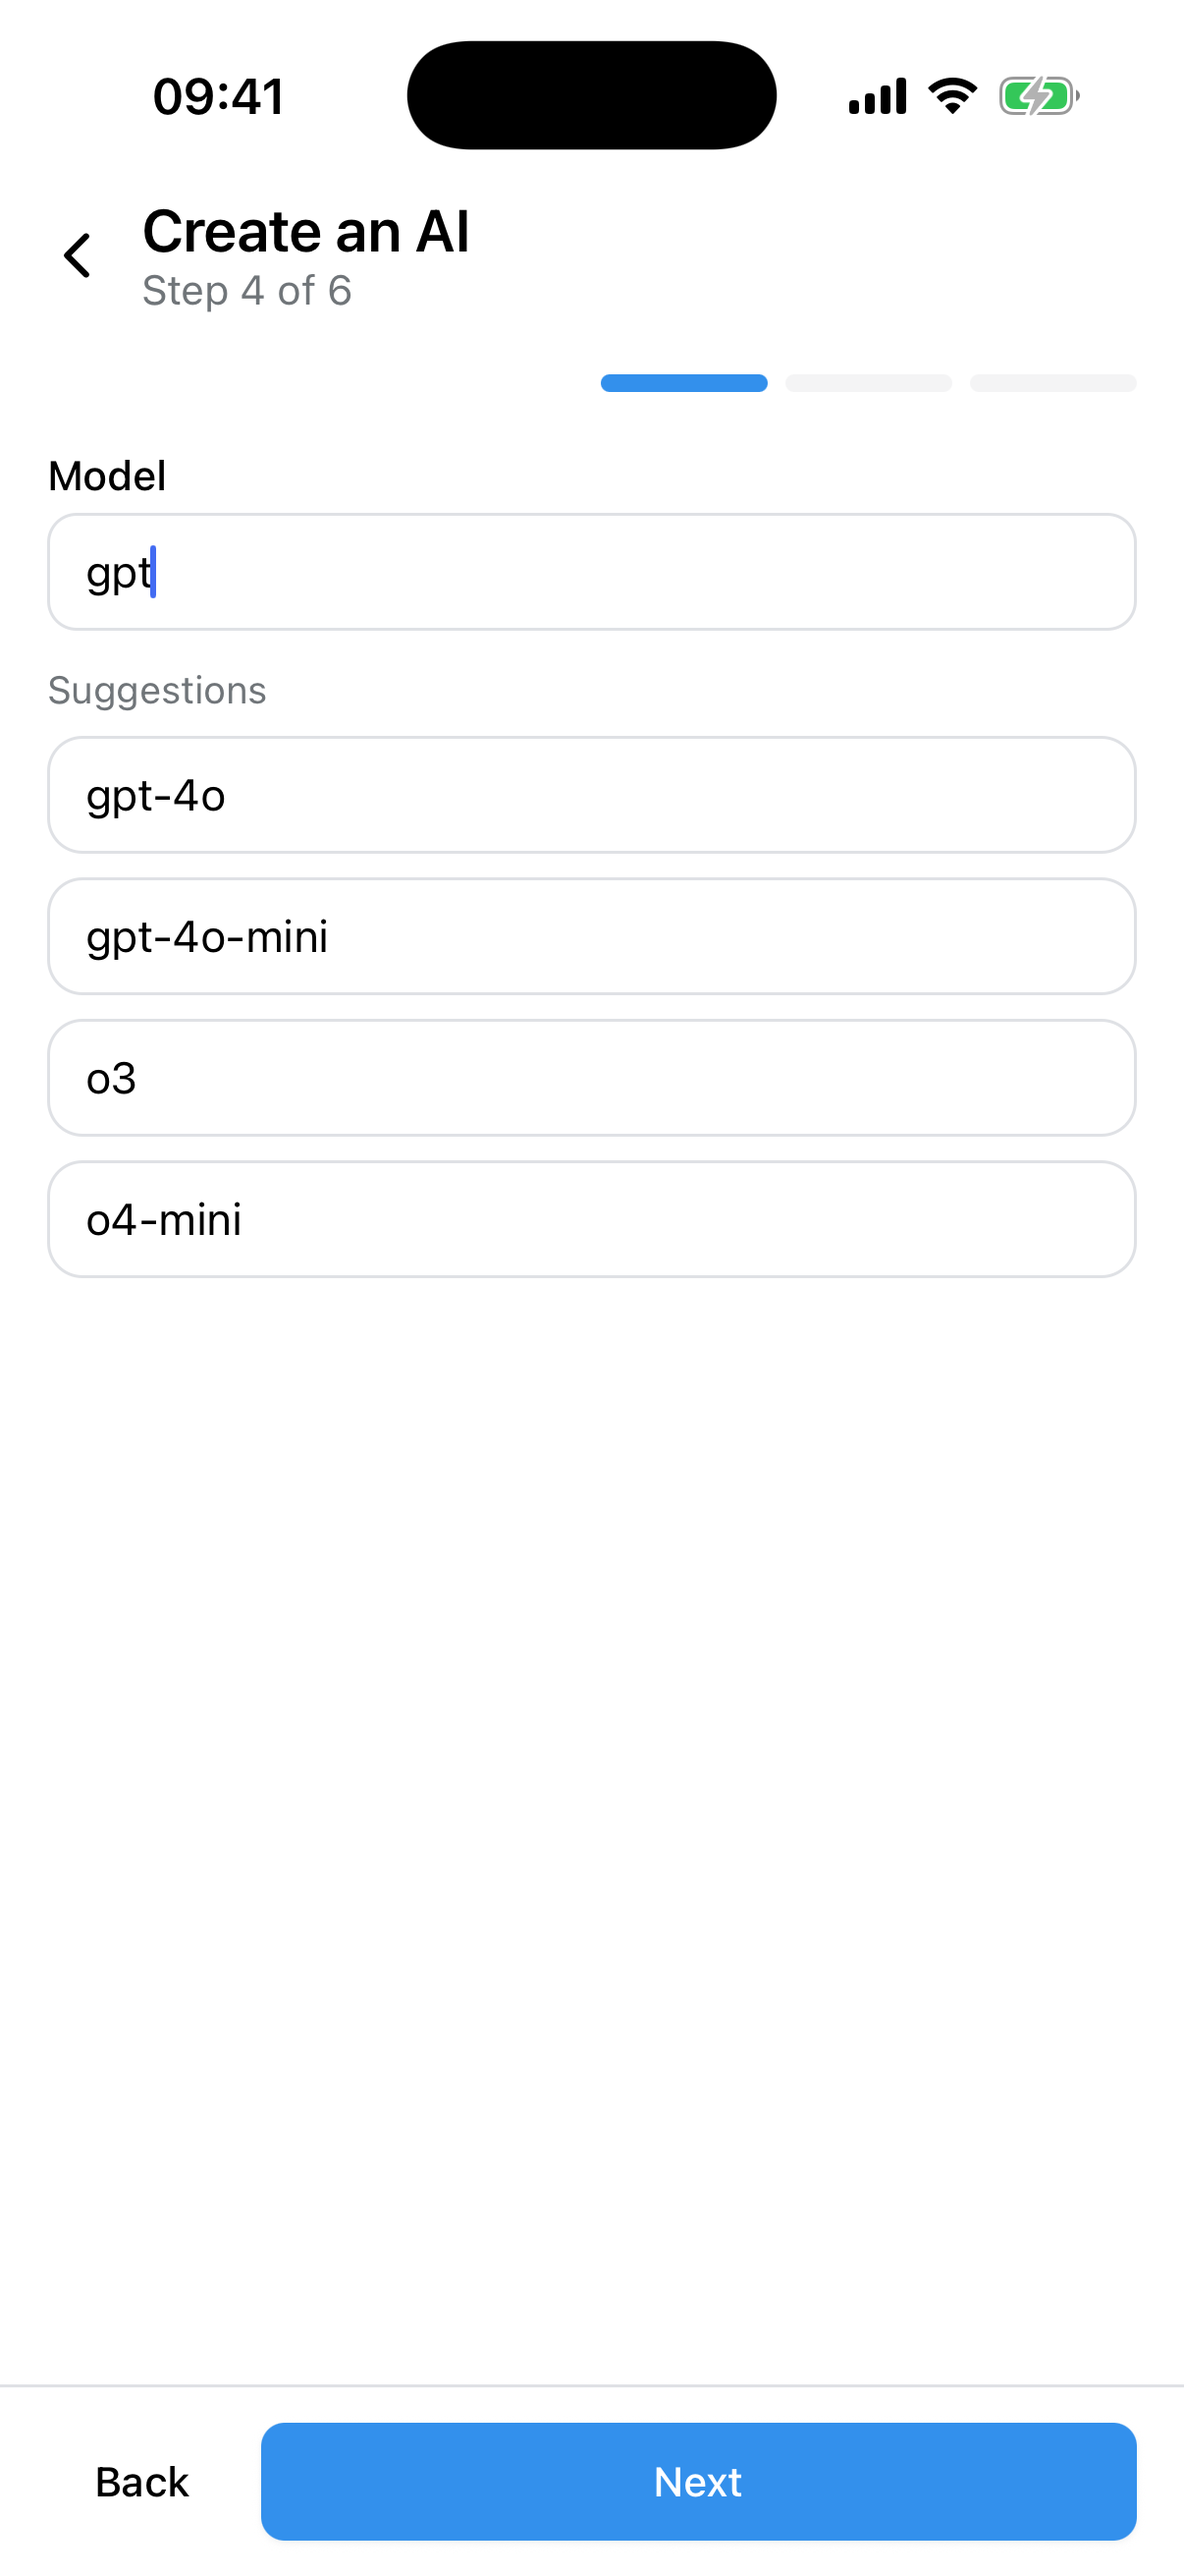
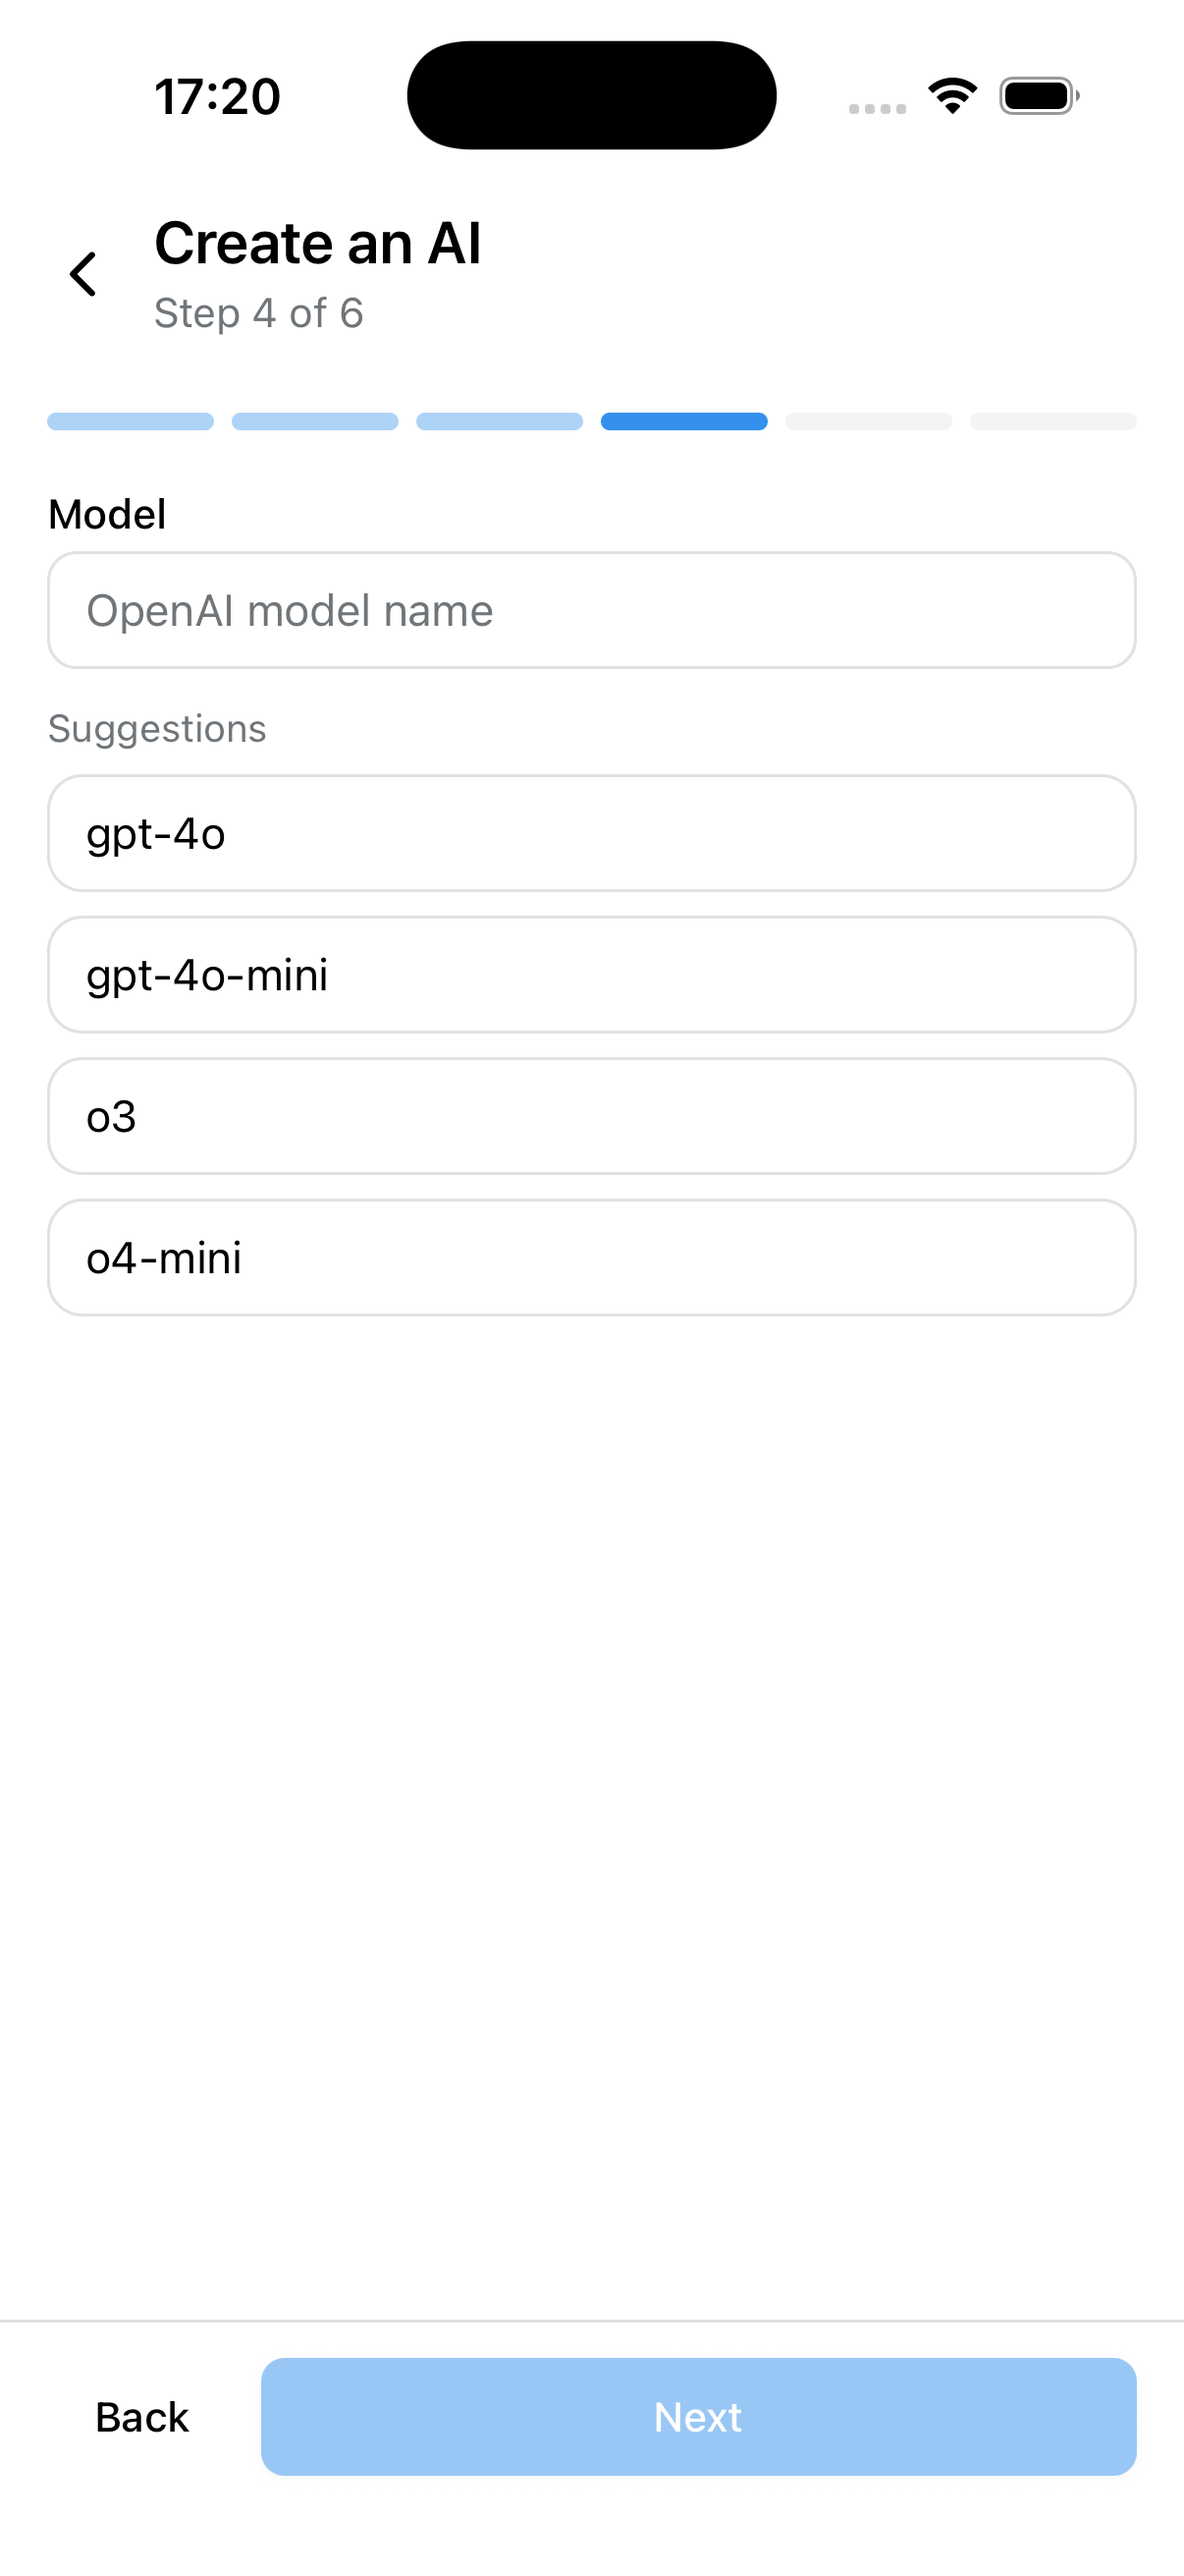
T-0037: round 3 — fix the wizard progress bar so all six segments render

diff --git a/apps/mobile/src/components/ais/wizard-steps.tsx b/apps/mobile/src/components/ais/wizard-steps.tsx
@@ -2,30 +2,33 @@ import { View } from 'react-native';
 
 import { cn } from '@/lib/utils';
 
-const STEP_LABELS = ['Name & template', 'Persona', 'Provider', 'Model', 'Limits', 'Review'];
+import { WIZARD_STEP_LABELS, wizardSegmentState, type WizardSegmentState } from './wizard-progress';
 
-/** The wizard's compact step dots, with the current one in accent. */
+// The semantic colours are plain `var(--…)` without an alpha channel, so
+// `bg-accent/40` renders nothing. Use element opacity for the done colour.
+const SEGMENT_CLASS: Record<WizardSegmentState, string> = {
+  done: 'bg-accent opacity-40',
+  active: 'bg-accent',
+  pending: 'bg-muted',
+};
+
+/** The wizard's compact step bar: six equal segments, filled up to `current`. */
 export function WizardSteps({ current }: { current: number }) {
   return (
     <View
       accessibilityRole="progressbar"
-      accessibilityLabel={`Step ${current} of ${STEP_LABELS.length}: ${STEP_LABELS[current - 1]}`}
-      className="flex-row items-center gap-1.5"
+      accessibilityLabel={`Step ${current} of ${WIZARD_STEP_LABELS.length}: ${WIZARD_STEP_LABELS[current - 1]}`}
+      className="w-full flex-row items-center gap-1.5"
     >
-      {STEP_LABELS.map((label, index) => {
-        const step = index + 1;
-        const done = step < current;
-        const active = step === current;
-        return (
-          <View
-            key={label}
-            className={cn(
-              'h-1.5 flex-1 rounded-full',
-              active ? 'bg-accent' : done ? 'bg-accent/40' : 'bg-muted',
-            )}
-          />
-        );
-      })}
+      {WIZARD_STEP_LABELS.map((label, index) => (
+        <View
+          key={label}
+          className={cn(
+            'h-1.5 flex-1 rounded-full',
+            SEGMENT_CLASS[wizardSegmentState(index + 1, current)],
+          )}
+        />
+      ))}
     </View>
   );
 }

diff --git a/apps/mobile/src/components/ais/ais.test.ts b/apps/mobile/src/components/ais/ais.test.ts
@@ -7,6 +7,7 @@ import { MAX_MONTHLY_USD, formatLimit, validateLimits } from './limits';
 import { modelSuggestionsFor } from './models';
 import { providerLabel } from './providers';
 import { defaultPersonaFor, templateLabel } from './templates';
+import { WIZARD_STEP_LABELS, wizardSegmentState } from './wizard-progress';
 
 const baseForm: WizardForm = {
   name: 'Dev-1',
@@ -169,5 +170,28 @@ describe('describeAisError', () => {
         unavailable: false,
       },
     );
+  });
+});
+
+describe('wizardSegmentState', () => {
+  it('marks earlier steps done, the current one active and later ones pending', () => {
+    expect([1, 2, 3, 4, 5, 6].map((step) => wizardSegmentState(step, 4))).toEqual([
+      'done',
+      'done',
+      'done',
+      'active',
+      'pending',
+      'pending',
+    ]);
+  });
+
+  it('fills steps 1..current on every step', () => {
+    const steps = WIZARD_STEP_LABELS.map((_, index) => index + 1);
+    for (const current of steps) {
+      const states = steps.map((step) => wizardSegmentState(step, current));
+      expect(states.filter((state) => state === 'done')).toHaveLength(current - 1);
+      expect(states.filter((state) => state === 'active')).toHaveLength(1);
+      expect(states.filter((state) => state === 'pending')).toHaveLength(steps.length - current);
+    }
   });
 });

diff --git a/apps/mobile/src/components/ais/wizard-progress.ts b/apps/mobile/src/components/ais/wizard-progress.ts
@@ -1,0 +1,21 @@
+export const WIZARD_STEP_LABELS = [
+  'Name & template',
+  'Persona',
+  'Provider',
+  'Model',
+  'Limits',
+  'Review',
+] as const;
+
+export type WizardSegmentState = 'done' | 'active' | 'pending';
+
+/** Visual state of the segment for `step` when `current` is the open step. */
+export function wizardSegmentState(step: number, current: number): WizardSegmentState {
+  if (step < current) {
+    return 'done';
+  }
+  if (step === current) {
+    return 'active';
+  }
+  return 'pending';
+}

diff --git a/work/T-0037-mobile-my-ais.md b/work/T-0037-mobile-my-ais.md
@@ -354,4 +354,69 @@ No `apps/web/**`, `apps/server/**`, `packages/**`, `docs/**`, other mobile file
 or screenshot changed. `PREREVIEW.md` was read only: not staged, not committed,
 not modified.
 
+## Round 3
+
+One visual bug, from `wizard-step4-selected.png`: the progress bar showed only
+three short segments in the right half on "Step 4 of 6".
+
+**Root cause — it was not the width.** The row was already full width and the six
+segments equal. Sampling the delivered `wizard-step1.png` (step 1 has no "done"
+cells) found segment 1 solid accent at x=132 and segments 2–6 pending at
+x=321…1073: all six present, full width. On step 4 only the active and pending
+cells rendered; the three "done" cells were pure white (`srgba(255,255,255,1)`
+at x=60…500). They used `bg-accent/40`, and the semantic colours in
+`tailwind.config.js` are plain `var(--accent)` with no `<alpha-value>` channel,
+so NativeWind drops the `/40` background entirely. The same silent drop affects
+`bg-accent/10` (OptionRow, TemplateCards), `bg-accent/5` (AiRow) and the
+`active:bg-accent/NN` press states — flagged for the lead, not fixed here, as
+this round was scoped to the progress bar.
+
+**Fix (`components/ais/wizard-steps.tsx`).**
+- The row is now explicitly `w-full`, as suggested (it was already stretching).
+- The done colour is `bg-accent opacity-40` instead of `bg-accent/40`, which
+  renders against the plain `var(--accent)`.
+- The per-step state is now a pure helper, `wizardSegmentState(step, current)` in
+  the new `components/ais/wizard-progress.ts` (with `WIZARD_STEP_LABELS`), so the
+  fill logic is unit-tested instead of inline.
+
+**Proof.** `wizard-step1.png` and `wizard-step4*.png` were re-shot on a fresh
+simulator ("Galena T-0037b", `E4C29E5A-…`) in mock mode on Metro 8082. A
+programmatic segment scan of the bar shows:
+- step 1 — 6 visible segments, each 14% of the width, 1 active + 5 pending;
+- step 4 — 6 visible segments, 3 done + 1 active + 2 pending.
+
+That is the expected "6 equal segments spanning the content width, filled
+1..current". I re-viewed only the one crop of the old bug; the fix was verified
+by the pixel scan rather than another screenshot view.
+
+Note: the scripted model-typing for the "selected" variant did not take on this
+capture, so `wizard-step4.png` and `wizard-step4-selected.png` are byte-identical
+(same md5). Both show the fixed bar; drop one if you prefer.
+
+### Checks (Round 3, real results)
+
+- `pnpm install` — up to date, 0.8s.
+- `pnpm format:check` — PASS ("All matched files use Prettier code style!").
+- `pnpm lint` — PASS (oxlint, no output).
+- `pnpm typecheck` — 9 tasks successful (8 cached).
+- `pnpm exec turbo test --force --filter=@galena/mobile` — **19 files passed,
+  162 tests passed, 2 skipped (164)**: +2 for `wizardSegmentState`.
+- `pnpm build` — 2 tasks successful.
+
+### Files changed (Round 3)
+
+- `apps/mobile/src/components/ais/wizard-steps.tsx` — `w-full`, `opacity-40`
+  done colour, uses the helper.
+- `apps/mobile/src/components/ais/wizard-progress.ts` (new) — labels +
+  `wizardSegmentState`.
+- `apps/mobile/src/components/ais/ais.test.ts` — 2 `wizardSegmentState` tests.
+- `apps/mobile/screenshots/T-0037/wizard-step1.png`, `wizard-step4.png`,
+  `wizard-step4-selected.png` — re-shot.
+- `work/T-0037-mobile-my-ais.md` — this section.
+
+The delete-dialog copy was not changed (web + mobile together, later), and
+`PREREVIEW.md` was left alone (not staged, not committed, not modified). The
+"Galena T-0037b" simulator was shut down and deleted by its UDID; DB167CD4-… and
+A3E0C081-… were not touched.
+
 ## Review (written by Claude)
